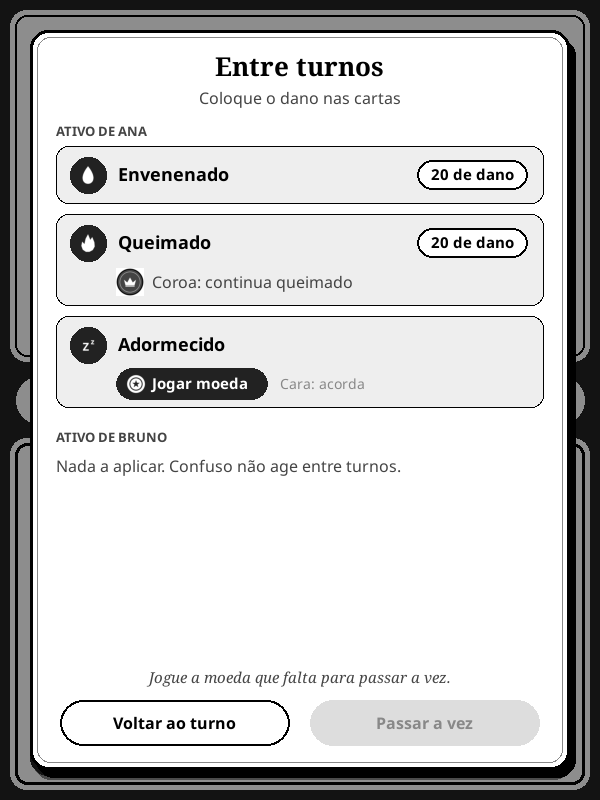
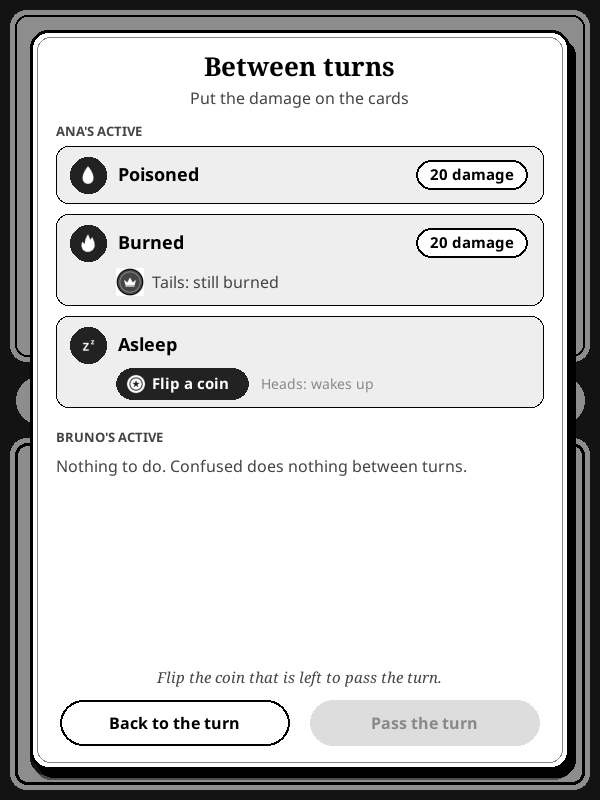
docs: add brand art, social preview and English screenshots

diff --git a/tools/make_brand_art.py b/tools/make_brand_art.py
@@ -1,0 +1,148 @@
+"""Draws the icon, the README banner and the GitHub social preview, in the style of the other Beater Studios plugins.
+
+Usage: KOREADER_DIR=<desktop KOReader> python3 -I tools/make_brand_art.py
+Run tools/koreader/readme_screens.sh first: the banner and the preview show two of the README screenshots.
+Needs Pillow, and the fonts that come with KOReader. The sleep screen cover is drawn by tools/make_assets.py.
+"""
+import math
+import os
+import sys
+
+from PIL import Image, ImageDraw, ImageFont
+
+ROOT = os.path.join(os.path.dirname(os.path.abspath(__file__)), "..")
+BLACK, WHITE, FOLD, GRAY = 0, 255, 170, 88
+ICON_SIZE = 1024
+SUPERSAMPLE = 3
+TITLE = "Matkeeper"
+TAGLINE = "A table counter for trading card games."
+DETAILS = [
+    "Magic life and counters, a Pokémon turn helper,",
+    "dice, coins and a match clock, made for e-ink.",
+    "Unofficial, not affiliated with the game publishers.",
+]
+# The sheet of paper, in icon coordinates, as in the other Beater Studios icons.
+PAGE_LEFT, PAGE_TOP, PAGE_RIGHT, PAGE_BOTTOM, EAR = 222, 130, 802, 894, 170
+
+
+def draw_icon():
+    k = SUPERSAMPLE
+    size = ICON_SIZE
+    large = Image.new("L", (size * k, size * k), BLACK)
+    d = ImageDraw.Draw(large)
+
+    def box(x0, y0, x1, y1, fill, radius=0):
+        d.rounded_rectangle([x0 * k, y0 * k, x1 * k, y1 * k], radius=radius * k, fill=fill)
+
+    def circle(cx, cy, r, fill):
+        d.ellipse([(cx - r) * k, (cy - r) * k, (cx + r) * k, (cy + r) * k], fill=fill)
+
+    page = [(PAGE_LEFT, PAGE_TOP), (PAGE_RIGHT - EAR, PAGE_TOP), (PAGE_RIGHT, PAGE_TOP + EAR), (PAGE_RIGHT, PAGE_BOTTOM), (PAGE_LEFT, PAGE_BOTTOM)]
+    d.polygon([(x * k, y * k) for x, y in page], fill=WHITE)
+    ear = [(PAGE_RIGHT - EAR, PAGE_TOP), (PAGE_RIGHT - EAR, PAGE_TOP + EAR), (PAGE_RIGHT, PAGE_TOP + EAR)]
+    d.polygon([(x * k, y * k) for x, y in ear], fill=FOLD)
+    # The table seen from above: four player blocks on the mat, with the round menu button where they meet.
+    left, right = 290, 734
+    top = (PAGE_TOP + EAR * 0.55 + PAGE_BOTTOM) / 2 - (right - left) / 2
+    bottom = top + (right - left)
+    box(left, top, right, bottom, BLACK, 48)
+    pad, gap = 30, 22
+    cx, cy = (left + right) / 2, (top + bottom) / 2
+    for x0, x1 in ((left + pad, cx - gap), (cx + gap, right - pad)):
+        for y0, y1 in ((top + pad, cy - gap), (cy + gap, bottom - pad)):
+            box(x0, y0, x1, y1, WHITE, 26)
+            # The life total of each block, as a bar: the top ones face the other side of the table.
+            box(x0 + 46, (y0 + y1) / 2 - 20, x1 - 46, (y0 + y1) / 2 + 20, GRAY, 12)
+    circle(cx, cy, 92, BLACK)
+    circle(cx, cy, 70, WHITE)
+    circle(cx, cy, 50, BLACK)
+    triangle = [(cx, cy - 30), (cx + 27, cy + 18), (cx - 27, cy + 18)]
+    d.polygon([(x * k, y * k) for x, y in triangle], fill=WHITE)
+    final = large.resize((size, size), Image.LANCZOS)
+    mask = Image.new("L", (size * 4, size * 4), 0)
+    ImageDraw.Draw(mask).rounded_rectangle([0, 0, size * 4 - 1, size * 4 - 1], radius=190 * 4, fill=255)
+    icon = Image.new("LA", (size, size))
+    icon.paste(final)
+    icon.putalpha(mask.resize((size, size), Image.LANCZOS))
+    return icon
+
+
+def halftone(image, cx, cy, radius, spacing):
+    d = ImageDraw.Draw(image)
+    row, y = 0, cy - radius
+    while y <= cy + radius:
+        x = cx - radius + (spacing / 2 if row % 2 else 0)
+        while x <= cx + radius:
+            distance = math.hypot(x - cx, y - cy) / radius
+            if distance <= 1:
+                dot = spacing * 0.34 * (1 - distance * 0.72)
+                d.ellipse([x - dot, y - dot, x + dot, y + dot], fill=88)
+            x += spacing
+        y += spacing * 0.87
+        row += 1
+
+
+def place_screen(image, name, center, height, angle):
+    screen = Image.open(os.path.join(ROOT, "docs", "screenshots", name + ".png")).convert("L")
+    screen = screen.resize((round(height * screen.width / screen.height), height), Image.LANCZOS)
+    framed = Image.new("L", (screen.width + 12, screen.height + 12), WHITE)
+    framed.paste(screen, (6, 6))
+    rotated = framed.convert("LA").rotate(angle, expand=True, resample=Image.BICUBIC)
+    image.paste(rotated.getchannel("L"), (round(center[0] - rotated.width / 2), round(center[1] - rotated.height / 2)), rotated.getchannel("A"))
+
+
+def draw_header(width, height, fonts, icon, layout):
+    k = 2
+    image = Image.new("L", (width * k, height * k), BLACK)
+    middle, screen_height, offset, text = layout["middle"], layout["screen_height"], layout["offset"], layout["text"]
+    halftone(image, middle * k, height // 2 * k, round(layout["halftone"] * k), 26 * k)
+    place_screen(image, "commander", ((middle - offset) * k, (height // 2 + 8) * k), screen_height * k, 6)
+    place_screen(image, "pokemon", ((middle + offset) * k, (height // 2 - 8) * k), screen_height * k, -5)
+    margin = 58
+    icon_size = round(112 * text)
+    title_size = round(68 * text)
+    tagline_size = round(24 * text)
+    details_size = round(18 * text)
+    details = layout.get("details")
+    block = icon_size + title_size + tagline_size + round(44 * text)
+    if details:
+        block += round(details_size * 1.45 * len(details)) + round(22 * text)
+    y = (height - block) // 2
+    small = icon.resize((icon_size * k, icon_size * k), Image.LANCZOS)
+    # The drawing starts inside the icon's black square, which disappears on this background.
+    inset = round(icon_size * PAGE_LEFT / ICON_SIZE)
+    image.paste(small.getchannel("L"), ((margin - inset) * k, y * k), small.getchannel("A"))
+    y += icon_size + round(6 * text)
+    d = ImageDraw.Draw(image)
+    d.text((margin * k, y * k), TITLE, font=ImageFont.truetype(fonts["bold"], title_size * k), fill=WHITE)
+    y += title_size + round(26 * text)
+    d.text((margin * k, y * k), TAGLINE, font=ImageFont.truetype(fonts["italic"], tagline_size * k), fill=WHITE)
+    y += tagline_size + round(30 * text)
+    if details:
+        font = ImageFont.truetype(fonts["regular"], details_size * k)
+        for line in details:
+            d.text((margin * k, y * k), line, font=font, fill=205)
+            y += round(details_size * 1.45)
+    return image.resize((width, height), Image.LANCZOS)
+
+
+def main():
+    koreader = os.environ.get("KOREADER_DIR")
+    if not koreader:
+        sys.exit("Set KOREADER_DIR to the KOReader folder, which has the fonts.")
+    noto = os.path.join(koreader, "fonts", "noto")
+    fonts = {
+        "bold": os.path.join(noto, "NotoSerif-Bold.ttf"),
+        "italic": os.path.join(noto, "NotoSerif-Italic.ttf"),
+        "regular": os.path.join(noto, "NotoSerif-Regular.ttf"),
+    }
+    brand = os.path.join(ROOT, "docs", "brand")
+    os.makedirs(brand, exist_ok=True)
+    icon = draw_icon()
+    icon.save(os.path.join(brand, "icon.png"), optimize=True)
+    draw_header(1280, 400, fonts, icon, {"middle": 1000, "screen_height": 330, "offset": 110, "text": 1, "halftone": 280}).save(os.path.join(brand, "banner.png"), optimize=True)
+    draw_header(1280, 640, fonts, icon, {"middle": 960, "screen_height": 430, "offset": 112, "text": 1.02, "halftone": 360, "details": DETAILS}).save(os.path.join(ROOT, "docs", "social-preview.png"), optimize=True)
+    print("Images generated in docs/brand and docs/social-preview.png")
+
+
+main()

diff --git a/README_pt.md b/README_pt.md
@@ -1,11 +1,24 @@
 <p align="center">
+  <img src="docs/brand/banner.png" alt="Matkeeper: um contador de mesa para jogos de cartas colecionáveis">
+</p>
+
+<p align="center">
   <strong>Um contador de mesa para jogos de cartas colecionáveis no KOReader, feito para e-ink. Em português, inglês e espanhol.</strong>
+</p>
+
+<p align="center">
+  <a href="https://github.com/beater-studios/matkeeper.koplugin/releases/latest"><img src="https://img.shields.io/github/v/release/beater-studios/matkeeper.koplugin?style=flat-square&color=111111&label=release" alt="Última release"></a>
+  <a href="https://github.com/beater-studios/matkeeper.koplugin/actions/workflows/ci.yml"><img src="https://img.shields.io/github/actions/workflow/status/beater-studios/matkeeper.koplugin/ci.yml?branch=main&style=flat-square&label=tests" alt="Testes"></a>
+  <a href="https://koreader.rocks"><img src="https://img.shields.io/badge/KOReader-2026.07-111111?style=flat-square" alt="Feito para o KOReader 2026.07"></a>
+  <img src="https://img.shields.io/badge/languages-EN%20%C2%B7%20PT%20%C2%B7%20ES-111111?style=flat-square" alt="Inglês, português e espanhol">
+  <a href="LICENSE"><img src="https://img.shields.io/badge/license-GPL--3.0-111111?style=flat-square" alt="Licença: GPL-3.0"></a>
 </p>
 
 <p align="center">
   <a href="#o-que-faz">O que faz</a> ·
   <a href="#instalação">Instalação</a> ·
   <a href="#como-usar">Como usar</a> ·
+  <a href="#desenvolvimento">Desenvolvimento</a> ·
   <a href="README.md">Read in English</a>
 </p>
 
@@ -13,10 +26,16 @@
 
 <table>
   <tr>
-    <td width="25%" align="center"><img src="docs/screenshots/commander.png" alt="Commander para quatro, um jogador em cada borda"><br><sub><b>Commander para quatro</b></sub></td>
-    <td width="25%" align="center"><img src="docs/screenshots/two_players.png" alt="Dois jogadores frente a frente com a barra no meio"><br><sub><b>Frente a frente</b></sub></td>
-    <td width="25%" align="center"><img src="docs/screenshots/pokemon.png" alt="O painel do turno do Pokémon"><br><sub><b>Painel do turno</b></sub></td>
-    <td width="25%" align="center"><img src="docs/screenshots/checkup.png" alt="Entre turnos, com o dano e as moedas"><br><sub><b>Entre turnos</b></sub></td>
+    <td width="25%" align="center"><img src="docs/screenshots/pt/commander.png" alt="Commander para quatro, um jogador em cada borda"><br><sub><b>Commander para quatro</b></sub></td>
+    <td width="25%" align="center"><img src="docs/screenshots/pt/two_players.png" alt="Dois jogadores frente a frente com a barra no meio"><br><sub><b>Frente a frente</b></sub></td>
+    <td width="25%" align="center"><img src="docs/screenshots/pt/pokemon.png" alt="O painel do turno do Pokémon"><br><sub><b>Painel do turno</b></sub></td>
+    <td width="25%" align="center"><img src="docs/screenshots/pt/checkup.png" alt="Entre turnos, com o dano e as moedas"><br><sub><b>Entre turnos</b></sub></td>
+  </tr>
+  <tr>
+    <td width="25%" align="center"><img src="docs/screenshots/pt/home.png" alt="Início com a partida em andamento, nova partida e a última mesa"><br><sub><b>Início</b></sub></td>
+    <td width="25%" align="center"><img src="docs/screenshots/pt/layouts.png" alt="Layouts para quatro jogadores, com setas mostrando para onde cada um olha"><br><sub><b>Como fica a mesa</b></sub></td>
+    <td width="25%" align="center"><img src="docs/screenshots/pt/seats.png" alt="Passo dos lugares: nomes e um botão de girar em cada bloco"><br><sub><b>Lugares</b></sub></td>
+    <td width="25%" align="center"><img src="docs/screenshots/pt/dice.png" alt="Três dados de seis faces com a soma, por cima da mesa"><br><sub><b>Dados</b></sub></td>
   </tr>
 </table>
 
@@ -48,4 +67,30 @@ A partida atual e as preferências ficam em `koreader/settings/matkeeper.lua`, e
 4. **Menu da mesa** (o botão redondo, a barra ou a célula de controles): desfazer, dados, moedas, relógio, monarca e companhia, registro, encerrar a partida ou sair da mesa. Sair guarda a partida para depois, com o relógio pausado. Começar uma partida nova põe a que não terminou nas partidas anteriores.
 5. **O fim:** uma derrota com três ou mais jogadores restantes deixa o jogador fora do jogo e a partida segue; com dois, o plugin oferece encerrar com o outro como vencedor ou continuar (há cartas que mudam essas regras). "Encerrar partida" marca o vencedor, um empate ou nenhum.
 
-Desenvolvimento, licença e marcas estão no [README em inglês](README.md).
+## Compatibilidade
+
+- Feito para o KOReader 2026.07 e para telas de toque, sempre em retrato: os blocos giram dentro da tela para ficar de frente para cada jogador. Foi desenvolvido para um Kindle básico de 10ª geração (firmware 5.18.1).
+- Layout conferido no emulador em 600x800, 758x1024, 1072x1448 e 1264x1680.
+- Usa só o que vem com o KOReader, sem nada para instalar à parte.
+
+## Desenvolvimento
+
+Com o [LuaJIT](https://luajit.org) instalado, da raiz do repositório, as mesmas conferências da CI:
+
+```sh
+sh tools/check.sh   # testes, textos e o pacote
+```
+
+As verificações no KOReader de computador, as ferramentas que geram as imagens e a organização do código estão no [README em inglês](README.md#development) e em [docs/design.md](docs/design.md). Contribuições são aceitas sob a licença do projeto.
+
+## Licença
+
+O código está sob a [GPL-3.0](LICENSE), somente a versão 3. Você pode usar, estudar, modificar e redistribuir, mantendo-o aberto sob a mesma licença. Esta licença não dá direito aos nomes "Matkeeper" e "Beater Studios". Veja o [NOTICE](NOTICE).
+
+Magic: The Gathering é marca da Wizards of the Coast; Pokémon é marca da Nintendo, Creatures e GAME FREAK. Os logos só identificam cada jogo. Este plugin não é oficial nem tem ligação com essas empresas.
+
+---
+
+<p align="center">
+  <sub>Feito pela <a href="https://beaterstudios.com/">Beater Studios</a></sub>
+</p>

diff --git a/README.md b/README.md
@@ -1,4 +1,8 @@
 <p align="center">
+  <img src="docs/brand/banner.png" alt="Matkeeper: a table counter for trading card games">
+</p>
+
+<p align="center">
   <strong>A table counter for trading card games in KOReader, made for e-ink. In Portuguese, English and Spanish.</strong>
 </p>
 
@@ -26,6 +30,12 @@
     <td width="25%" align="center"><img src="docs/screenshots/two_players.png" alt="Two players face to face with the bar of controls between them"><br><sub><b>Face to face</b></sub></td>
     <td width="25%" align="center"><img src="docs/screenshots/pokemon.png" alt="The Pokémon turn panel with reminders, a coin and the conditions of the Active Pokémon"><br><sub><b>Pokémon turn panel</b></sub></td>
     <td width="25%" align="center"><img src="docs/screenshots/checkup.png" alt="Between turns, with the damage to put on the cards and a coin per condition"><br><sub><b>Between turns</b></sub></td>
+  </tr>
+  <tr>
+    <td width="25%" align="center"><img src="docs/screenshots/home.png" alt="Home with the match in progress, a new match and the last table"><br><sub><b>Home</b></sub></td>
+    <td width="25%" align="center"><img src="docs/screenshots/layouts.png" alt="Layouts for four players, with arrows showing where each one faces"><br><sub><b>Table layouts</b></sub></td>
+    <td width="25%" align="center"><img src="docs/screenshots/seats.png" alt="Seats step: names and a turn button on each block"><br><sub><b>Seats</b></sub></td>
+    <td width="25%" align="center"><img src="docs/screenshots/dice.png" alt="Three six-sided dice with the total, over the table"><br><sub><b>Dice</b></sub></td>
   </tr>
 </table>
 
@@ -57,10 +67,18 @@ The checksum of each release is in `matkeeper.koplugin.zip.sha256`. The current 
 4. **The table menu** (the round button, the bar or the controls cell): undo, dice, coins, the clock, the monarch and friends, the log, ending the match or leaving the table. Leaving keeps the match for later, with the clock paused. Starting a new match puts the unfinished one in past matches.
 5. **The end:** a defeat with three or more players left puts that player out and the match goes on; with two, the plugin offers to end it with the other player as the winner, or to keep playing (some cards change these rules). "End match" lets you mark the winner, a draw or no winner.
 
+## Compatibility
+
+- Made for KOReader 2026.07 and for touchscreens, always in portrait: the blocks turn inside the screen to face each player. It was developed for a 10th generation basic Kindle (firmware 5.18.1).
+- Layout checked in the emulator at 600x800, 758x1024, 1072x1448 and 1264x1680.
+- Uses only what comes with KOReader, with nothing else to install.
+
 ## Development
 
+With [LuaJIT](https://luajit.org) installed, from the repository root, the same checks as the CI:
+
 ```sh
-sh tools/check.sh   # tests, texts and the package, as the CI runs them
+sh tools/check.sh   # tests, texts and the package
 ```
 
 With the official KOReader for desktop, `KOREADER_DIR` pointing at the folder with `luajit` and `reader.lua`:
@@ -74,8 +92,16 @@ OUTPUT_DIR=shots tools/koreader/run_headless.sh tools/koreader/render_screens.lu
 
 The other checks (`check_screensaver.lua`, `check_rotation.lua`, `check_awake.lua`, `check_sleep.lua`) run the same way and are listed in [docs/design.md](docs/design.md).
 
-The images in `assets/` come from `tools/make_assets.py` (Pillow). How the code is organized and why is in [docs/design.md](docs/design.md).
+The images in `assets/` come from `tools/make_assets.py`, the README screenshots from `tools/koreader/readme_screens.sh` and the banner, the icon and the social preview from `tools/make_brand_art.py` (Pillow). How the code is organized and why is in [docs/design.md](docs/design.md). Contributions are accepted under the project's license.
 
 ## License
 
-GPL-3.0-only. See [LICENSE](LICENSE) and [NOTICE](NOTICE). Magic: The Gathering is a trademark of Wizards of the Coast; Pokémon is a trademark of Nintendo, Creatures and GAME FREAK. Their logos only identify each game. This plugin is unofficial and not affiliated with them.
+The code is under [GPL-3.0](LICENSE), version 3 only. You may use, study, modify and redistribute it, keeping it open under the same license. This license grants no rights to the names "Matkeeper" and "Beater Studios". See [NOTICE](NOTICE).
+
+Magic: The Gathering is a trademark of Wizards of the Coast; Pokémon is a trademark of Nintendo, Creatures and GAME FREAK. Their logos only identify each game. This plugin is unofficial and not affiliated with them.
+
+---
+
+<p align="center">
+  <sub>Made by <a href="https://beaterstudios.com/">Beater Studios</a></sub>
+</p>

diff --git a/docs/design.md b/docs/design.md
@@ -88,6 +88,8 @@ If the device sleeps with the plugin open (the table keeps it awake, so this hap
 - `tools/koreader/fuzz_ui.lua`, with `tools/koreader/fuzz.lua`: random taps, holds and swipes on home, setup and every layout of both games in the three languages, each run from nothing saved; it prints how to repeat each error (`SEED`, `ACTIONS`, `ONLY`).
 - `tools/koreader/check_screensaver.lua`: checks when the cover replaces the sleep screen image (plugin on top, a dialog over it, another full-screen window, power off, other modes, after closing) and saves the resulting screen.
 - `tools/koreader/check_rotation.lua` (cases in `rotation_cases.lua`), `check_awake.lua` and `check_sleep.lua` (cases in `sleep_cases.lua`, the table with its timers running): portrait, the awake state and nothing drawn while asleep.
+- `KOREADER_DIR=<desktop KOReader> tools/koreader/readme_screens.sh`: the README screenshots, from `render_screens.lua` with a fixed date: English in `docs/screenshots` and Portuguese in `docs/screenshots/pt`.
+- `KOREADER_DIR=<desktop KOReader> python3 -I tools/make_brand_art.py`: the icon and the README banner in `docs/brand/`, and `docs/social-preview.png`, the image for the GitHub repository settings, in the style of the other Beater Studios plugins: a sheet of paper with the table seen from above, and two of the README screenshots. Run `readme_screens.sh` first. Needs Pillow.
 - `tools/make_assets.py`: draws the icon masks, coins, dice, the banner, the header and the sleep screen cover with Pillow, and reduces the logos to the screen's 16 grays.
 - `tools/package.sh`, with `tools/package_lib.sh`: builds `dist/matkeeper.koplugin.zip` and its checksum, the same zip byte for byte on any machine, and checks that every file the code loads is in it.
 
